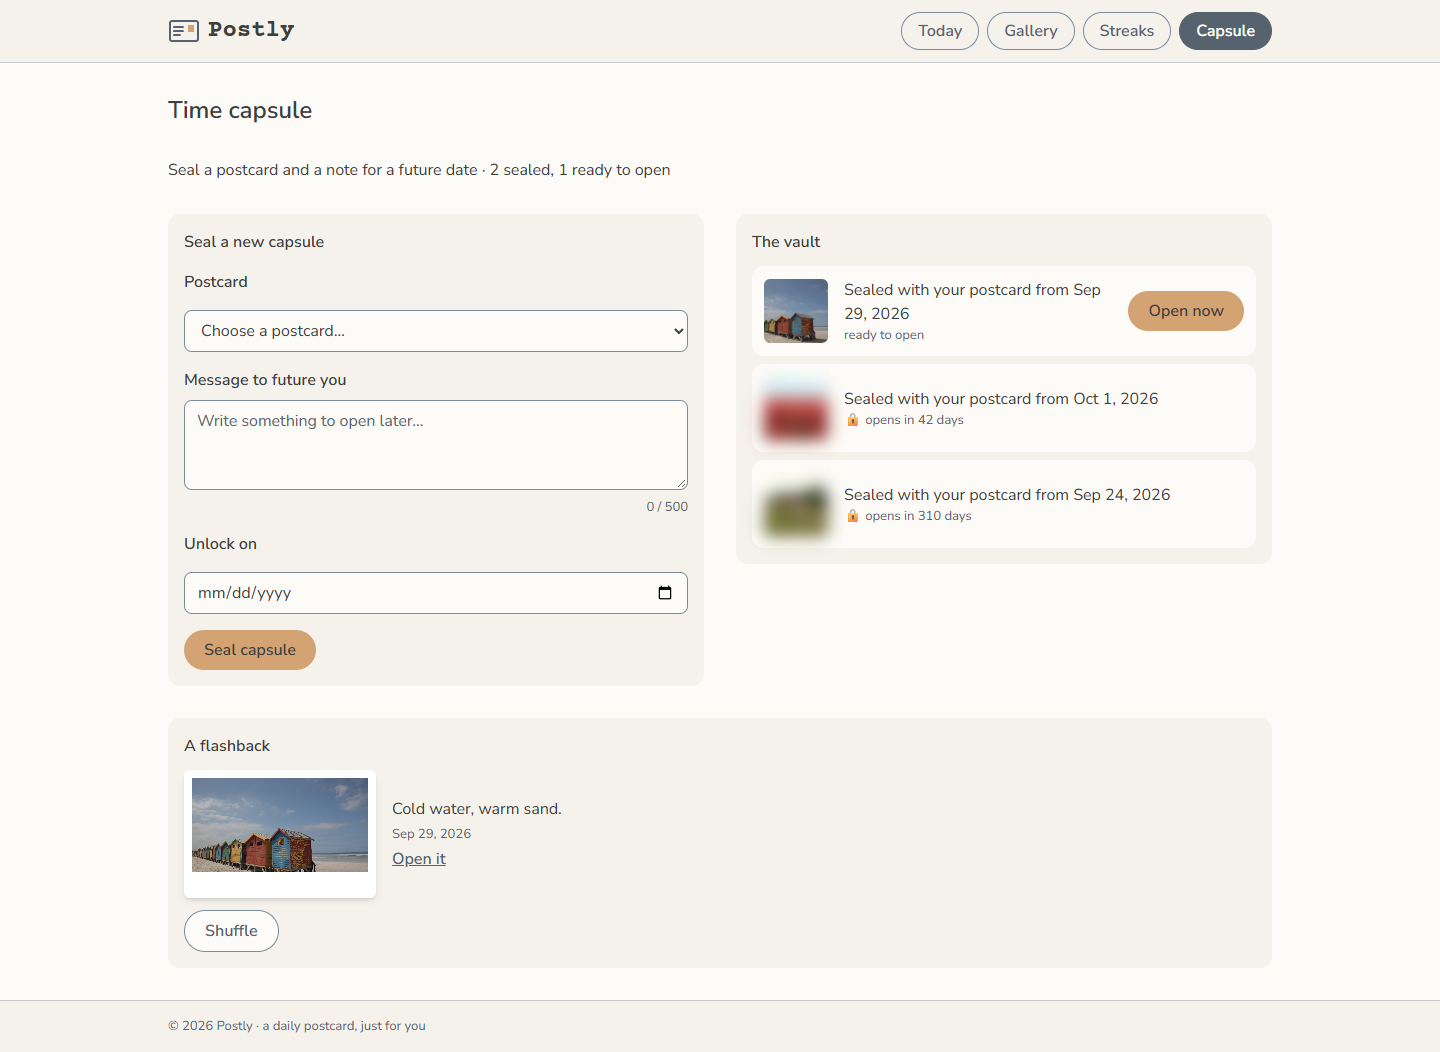
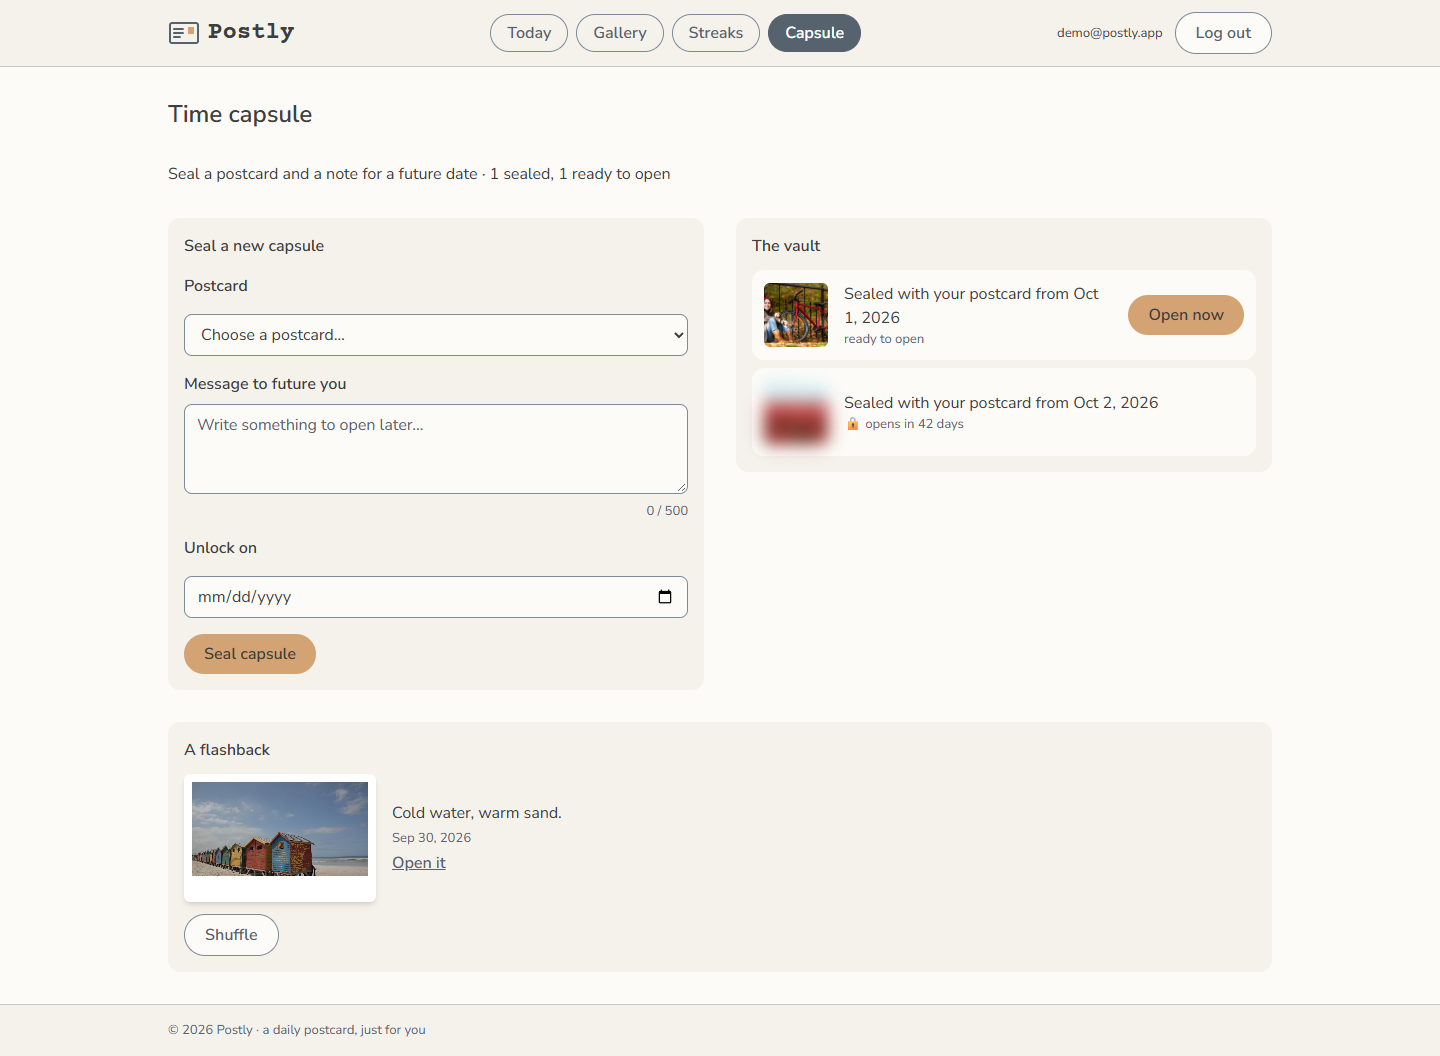
docs: update readme and screenshots for the live app

diff --git a/AI-USAGE.md b/AI-USAGE.md
@@ -40,6 +40,7 @@ The first commits were made after the week 1 work was finished, so each fix list
 | 26 | 2026-10-05 | Claude Code | Get the code ready for Vercel | Kept. `api/index.js` (one line handing the Express app to Vercel), `vercel.json` (build, routing, and the Singapore region so the API sits next to the Neon database), `"type": "module"` in the root `package.json`, and a Deploying section in the README. Before deploying, it tested this on my computer: a small server that copies Vercel's routing, using the built app, a throwaway database and production settings. Login worked and set an https-only, httpOnly cookie, logged-out requests got 401, reloading `/gallery` loaded the page, and there was no sideways scroll at the six widths. | [`30f79f9`](https://github.com/kurtzk10/postly/commit/30f79f9) |
 | 27 | 2026-10-05 | Claude Code | Run the live test on the deployed site | No code changed. **Logged out:** health answered, every API route gave 401, reloading `/capture`, `/gallery/5` and `/capsule` loaded the app, asking for `/.env` or `/server/.env.neon` returned only the app's page (no secrets), and http redirected to https. **Logged in** (a test account `vercel-test-…@example.test`): sign-up, duplicate email 409, log out, wrong password 401, log in, Save disabled during the upload, a real upload and save, a second postcard 409, a bad image link 400, capsule sealed (201) and opened early (403), postcard deleted (204, its capsule went with it), photo deleted from Cloudinary (checked with Cloudinary's API), log out. No sideways scroll on any page at the six widths, and no page errors. Found: a deleted photo's link still loads for a while, because Cloudinary's CDN keeps a cached copy. The test account row is still on Neon, because the AI wasn't given access to the live database to delete it. | n/a |
 | 28 | 2026-10-05 | Claude Code | Fix the deleted photo still loading, and give me SQL to clean up Neon and seed a showcase account | Kept. `server/src/lib/cloudinary.js` now sends `invalidate: true` with the delete, so Cloudinary also clears its CDN copies. Tested with a labelled test image: loaded 3 times so the CDN cached it, deleted, and the link returned 404 within 16 seconds. For the database, it wasn't allowed to touch Neon, so it wrote SQL for me to run in Neon's editor: look at the users, delete the test account and my demo account (plus their logins), and create `showcase@postly.app` with 13 past postcards. It tested the SQL on a throwaway local database first, which it dropped afterwards. I then asked for two capsules that open today, for the demo; it wrote that SQL too and tested it the same way. | [`09ff1ac`](https://github.com/kurtzk10/postly/commit/09ff1ac) |
+| 29 | 2026-10-05 | Claude Code | Bring the README up to date after deploying, and re-check my security checklist | Kept. README: the live link, `CLIENT_ORIGIN` added to the Vercel settings, "Not deployed yet" replaced with two honest known issues (the app connects to Neon as the database owner, and a deleted photo can load for a few seconds), and every screenshot retaken plus a new Log in one, so they show the header with my email and **Log out**. They were taken on a throwaway local database with only Cloudinary's sample photos, dropped afterwards. It then re-checked every row of my `SECURITY-CHECKLIST.md` against the deployed app and updated the rows that changed since 4 October (login, Neon, Vercel, signed uploads). | |
 
 **A note on my design system:** the AI checked the contrast ratios and found my design system's claim that "all pairs pass 4.5:1" was wrong. The slate primary `#7C8B99` is only 3.4:1 on the cream background, and white text on the gold accent is 2.3:1. We added a darker slate `#56636F` (6:1) for links and filled buttons, and used charcoal text on gold buttons (4.7:1).
 

diff --git a/README.md b/README.md
@@ -10,6 +10,8 @@ Postly is a private daily postcard journal. Once a day you upload one photo, pic
 
 Stack: React 19 + Vite + Tailwind CSS · Express 5 · PostgreSQL · Cloudinary (image hosting).
 
+**Live:** https://postly-lac-two.vercel.app (hosted on Vercel, database on Neon). Create an account to try it; each account only sees its own postcards.
+
 ## 2. Setup and installation
 
 ### Install first
@@ -124,6 +126,8 @@ Use `db:setup`, not `db:seed`: the deployed database gets no demo account.
 | `DATABASE_URL` | Neon's pooled connection string, with `sslmode=verify-full` |
 | `SESSION_SECRET` | a new long random string, different from your local one |
 | `CLOUDINARY_CLOUD_NAME`, `CLOUDINARY_API_KEY`, `CLOUDINARY_API_SECRET` | from the Cloudinary console |
+| `CLIENT_ORIGIN` | the live address, e.g. `https://postly-lac-two.vercel.app`, so CORS only allows the app itself |
+
 Leave `VITE_API_URL` unset: the app and API share one address. **Don't set `NODE_ENV`** either: with `NODE_ENV=production`, `npm install` skips the dev packages the build needs (Vite's React plugin) and the build fails. The server switches to production mode (https-only login cookie) by itself when it sees Vercel's own `VERCEL=1`. Every push to `main` then redeploys.
 
 ## 4. Features and usage
@@ -271,7 +275,10 @@ Components follow atomic design: a level only imports from the levels below it.
 
 ## 6. Screenshots
 
-**Making today's postcard (desktop)**
+**Log in**
+![Log in page on desktop](docs/screenshots/login-desktop.png)
+
+**Making today's postcard (desktop)**, with your email and **Log out** in the header
 ![Capture screen on desktop](docs/screenshots/capture-desktop.png)
 
 **The same screen on a phone**, with the save button fixed to the bottom
@@ -281,13 +288,13 @@ Components follow atomic design: a level only imports from the levels below it.
 **Gallery**
 ![Gallery on desktop](docs/screenshots/gallery-desktop.png)
 
-**Gallery search**: "the" in October, 3 matches
+**Gallery search**: "the" in October, 4 matches
 ![Gallery filtered by a search and a month](docs/screenshots/gallery-search-desktop.png)
 
 **Streaks**
 ![Streaks screen on desktop](docs/screenshots/streaks-desktop.png)
 
-**Time capsule**: the seal form, the vault (one ready, two locked and blurred) and a flashback
+**Time capsule**: the seal form, the vault (one ready to open, one locked and blurred) and a flashback
 ![Time capsule screen on desktop](docs/screenshots/capsule-desktop.png)
 
 **Opening a capsule**
@@ -315,6 +322,7 @@ Components follow atomic design: a level only imports from the levels below it.
 - **Your timezone updates when you log in, not while you're logged in.** If you travel, log out and back in so "today" follows you.
 - **Re-running `db:setup` or `db:seed` deletes everything.** There are no migrations yet.
 - **No password reset or email check yet.** Sign-up doesn't confirm the email address, and a forgotten password can't be recovered.
-- **Not deployed yet.** Next: move the database to Neon and host the app on Vercel.
+- **The app connects to Neon as the database owner.** It works, but a separate role that can only read and write Postly's tables would be safer.
+- **A deleted photo can load for a few more seconds.** The photo is removed from Cloudinary straight away, but its CDN copies take a moment to clear.
 - **No automated tests yet.** The API has been checked by hand with curl for every status code in the table above.
 - **Photos uploaded but never saved stay in Cloudinary.** If you pick a photo and then leave without clicking Save, or pick a different one, the first upload isn't cleaned up. Fixing that would need a scheduled cleanup job.
